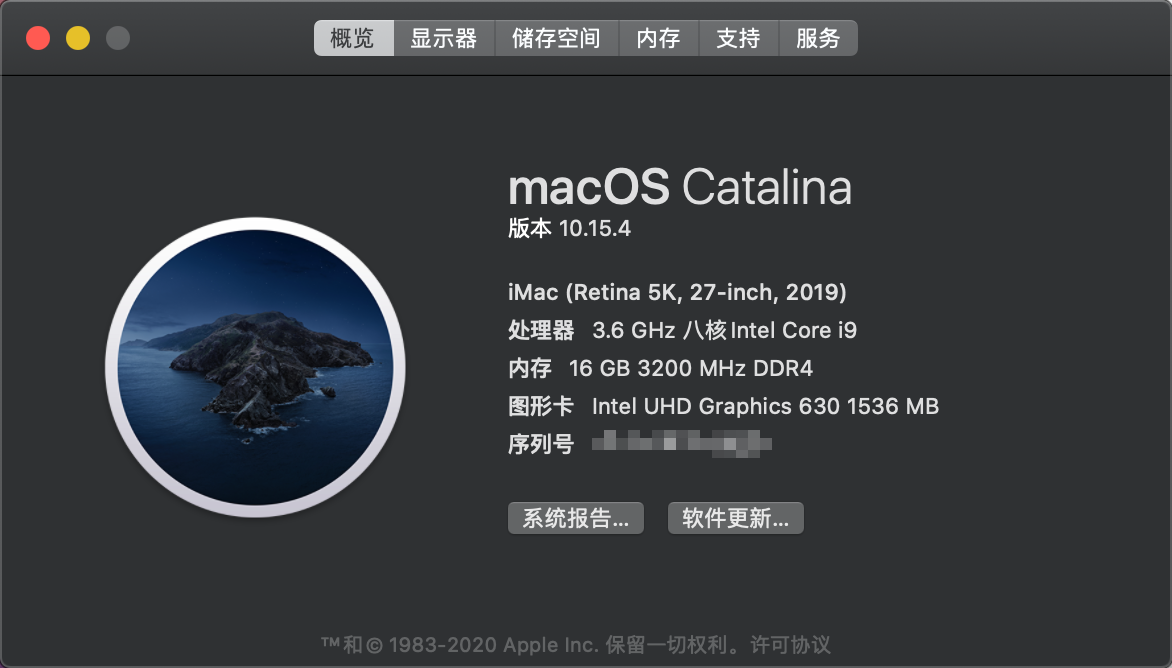
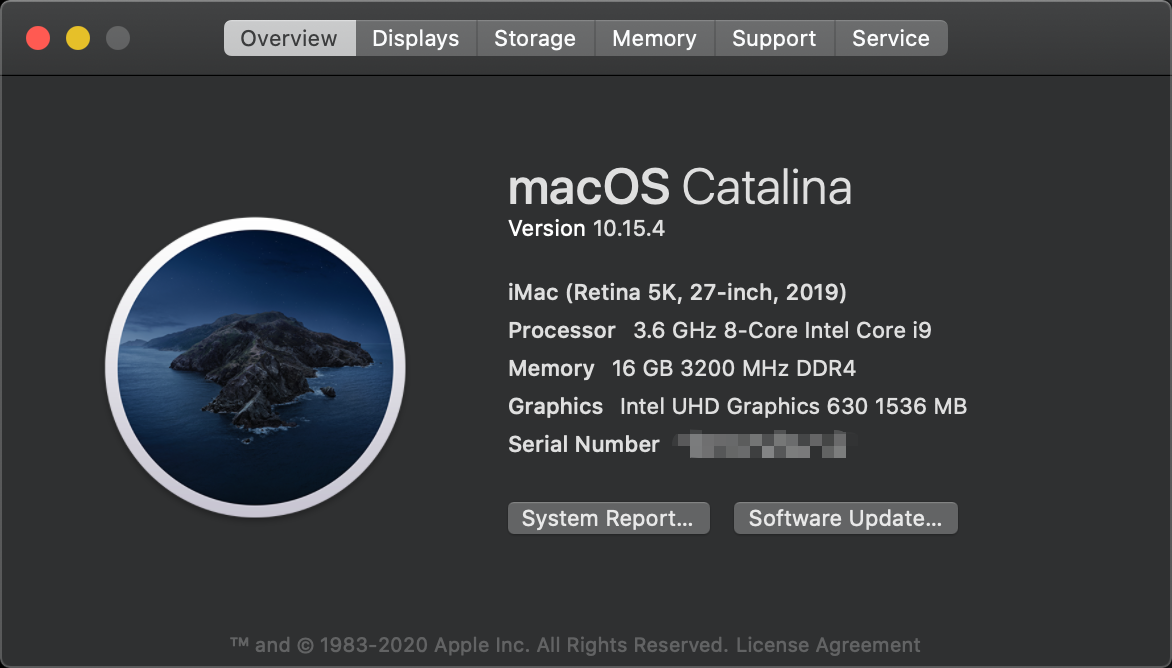
docs(readme): update readme

diff --git a/README.md b/README.md
@@ -2,19 +2,24 @@
 
 ![catalina 10.15](./catalina.png)
 
-## 硬件信息
+## System Information
 
-| 🛰            | 🛰                                                                |
-| :----------- | :--------------------------------------------------------------- |
-| 处理器       | 英特尔 Core i9-9900K @ 3.60GHz 八核                              |
-| 主 板        | 华硕 ROG STRIX Z390-E GAMING ( 300 Series 芯片组 Family - A305 ) |
-| 内 存        | 16 GB ( 芝奇 DDR4 3200MHz )                                      |
-| 主硬盘       | 三星 SSD 970 EVO Plus 500GB ( 500 GB / 固态硬盘 )                |
-| 显 卡        | Intel UHD Graphics 630 1536 MB                                   |
-| <s>显 卡</s> | <s>Nvidia GeForce RTX 2080 ( 8 GB / 华硕 )</s>                   |
-| 显示器       | 戴尔 DELA0EC DELL U2718Q ( 27.7 英寸 )                           |
-| 声 卡        | 英特尔 High Definition Audio 控制器                              |
-| 网 卡        | 英特尔 Wireless-AC 9560                                          |
+                                      Azrael’s iMac iMac19,1
+                                      ----------------------------------------------
+                                      主板型号　: 　ASUS ROG STRIX Z390-E GAMING
+                 ###                  操作系统　: 　10.15.4 19E287
+               ####                   内核版本　: 　Darwin 19.4.0
+               ###                    开机时间　: 　3 minutes
+       #######    #######             Shell　　: 　/bin/zsh
+     ######################           当前时间　: 　Tue May 26 00:31:21  2020
+    #####################             处理器　　: 　Intel Core i9-9900K 3.60GHz x (16)
+    ####################              内存　　　: 　16 GB ( G.Skill DDR4 3200MHz x 2 )
+    ####################              磁盘　　　: 　SamSung SSD 970 EVO Plus 500GB
+    #####################             网卡　　　: 　Intel Wireless-AC 9560
+     ######################           当前终端　: 　xterm-256color by iTerm.app
+      ####################            显卡设备　: 　Intel UHD Graphics 630 / VRAM (Dynamic, Max): 1536 MB
+        ################              主显示器　: 　Dell DELA0EC DELL U2718Q ( 27.7 )
+         ####     #####               声卡　　　: 　Intel High Definition Audio Controller
 
 ## Theme with 3840 \* 2160 resolution
 
